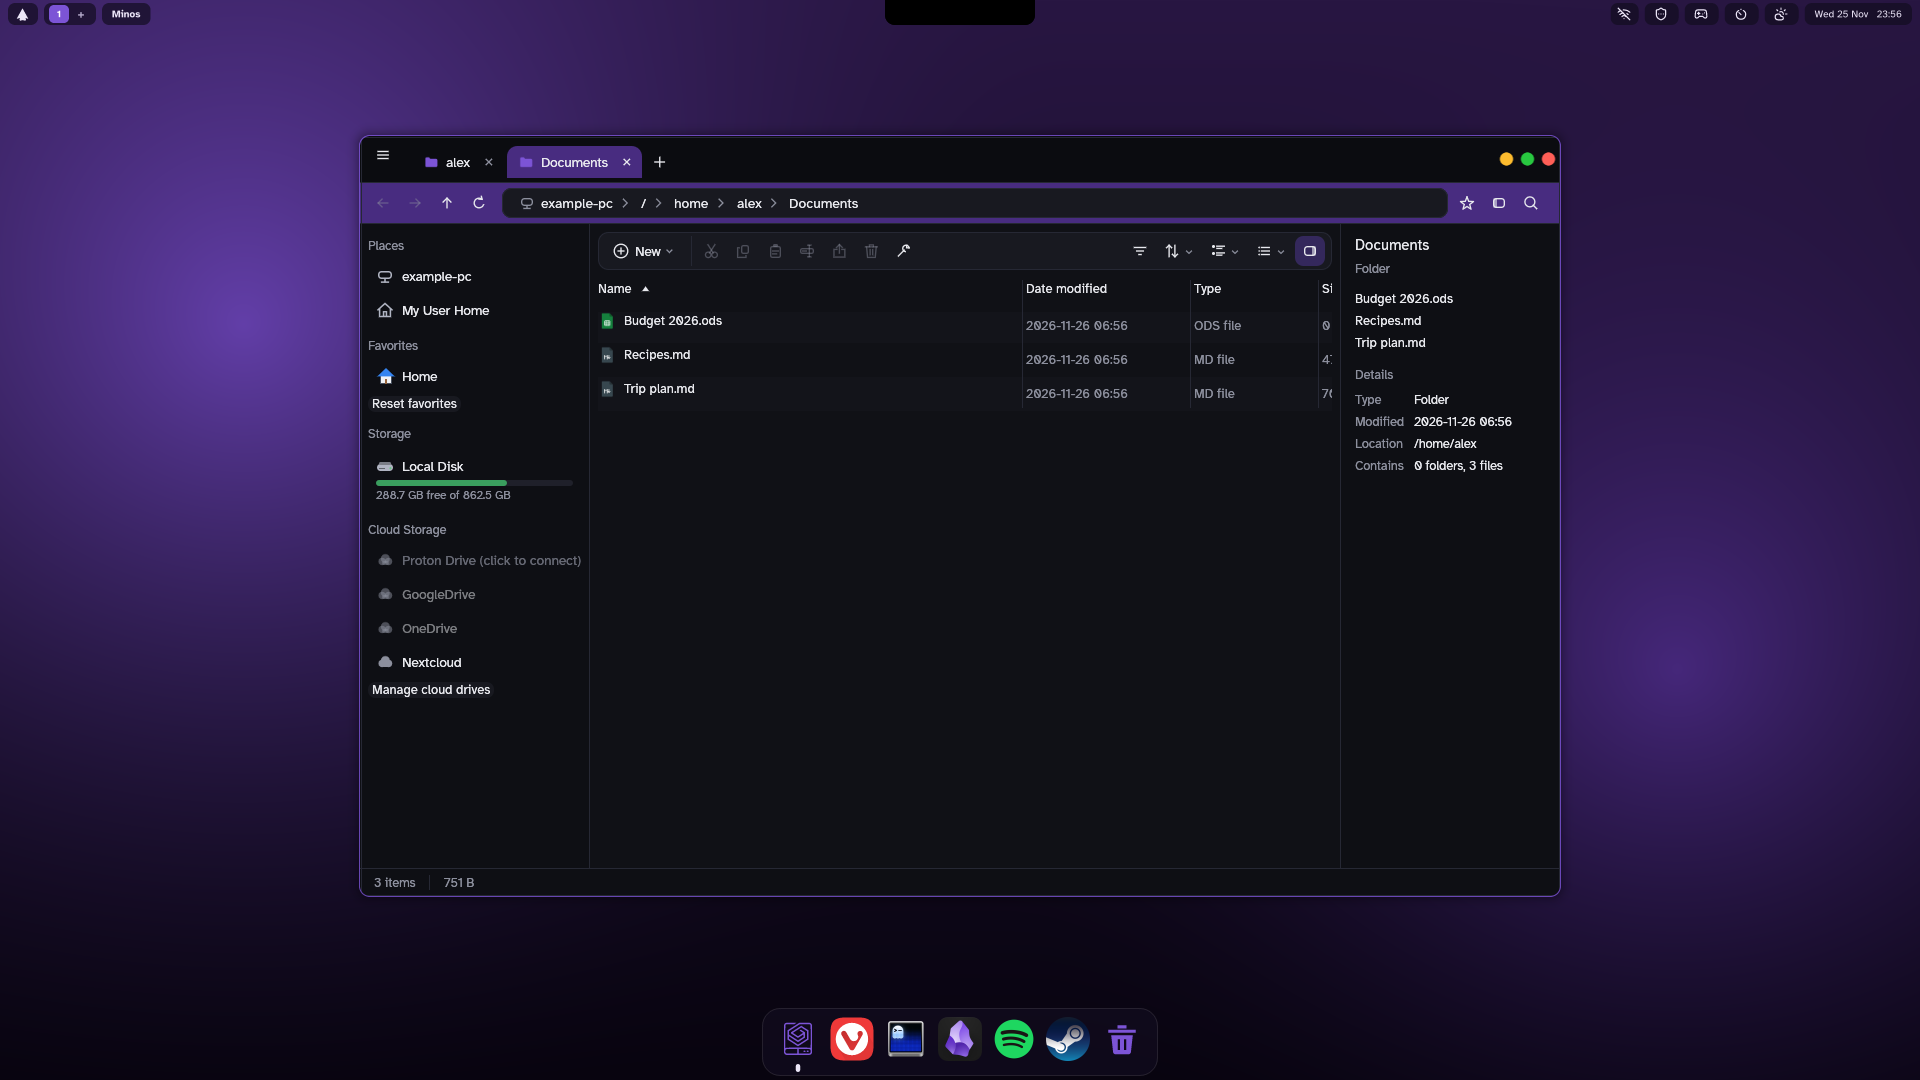
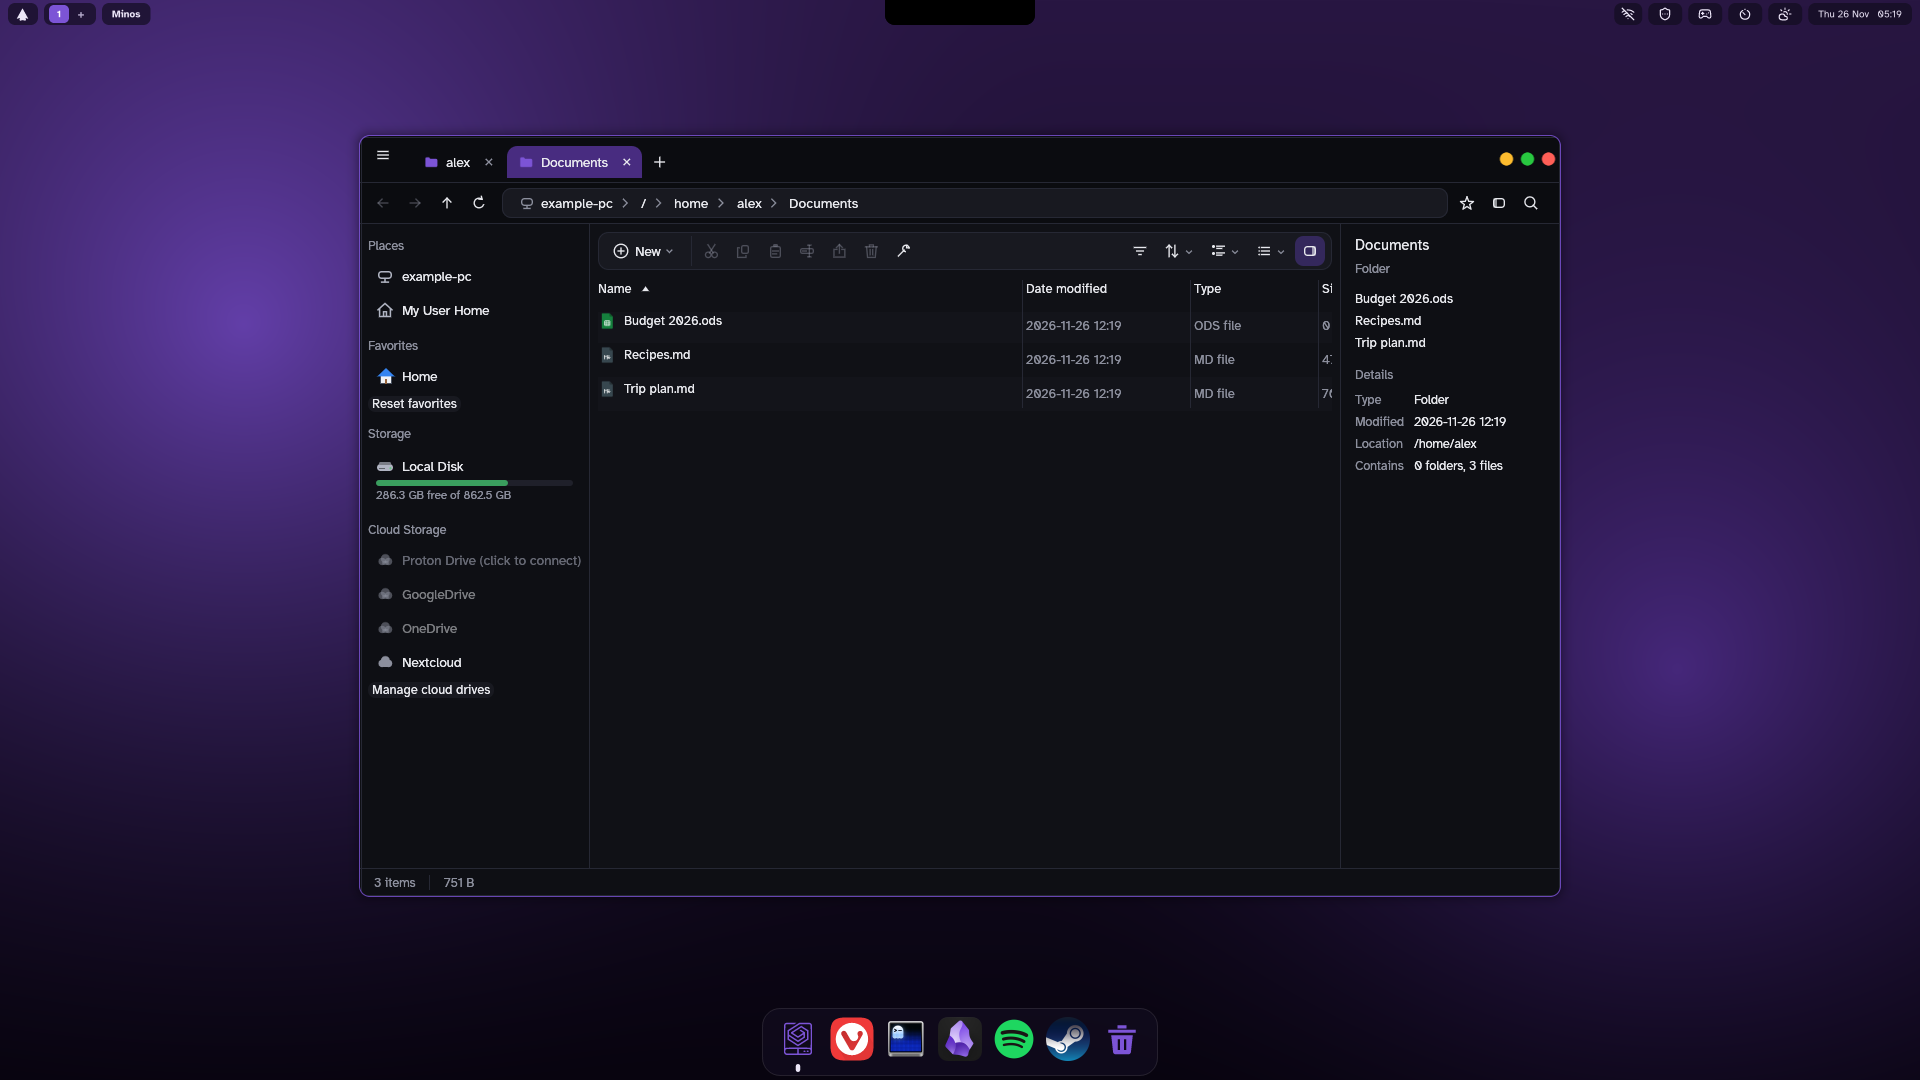
Minos: the navigation row in the title strip's colour; only the current tab is coloured
The row under the tabs was filled with the active tab's colour, so tab and row read as one purple band. It now has the title
strip's colour (dark or light), as Minos had before the Files-style top. README picture made again.

Changed region(s): [[0.1875, 0.1528, 0.8125, 0.2139], [0.8438, 0.0, 0.9688, 0.0306], [0.5625, 0.275, 0.5938, 0.3056]]

diff --git a/packages/minos/src/main.rs b/packages/minos/src/main.rs
@@ -4350,9 +4350,10 @@ impl eframe::App for App {
             });
         });
 
-        // the navigation row across the window, under the tabs (split view: one in each pane, draw_pane)
+        // the navigation row across the window, under the tabs, in the title strip's colour: only the current tab is
+        // coloured (split view: one in each pane, draw_pane)
         if !split {
-            egui::Panel::top("nav").frame(egui::Frame::new().fill(pal.tab_active).inner_margin(egui::Margin::symmetric(8, 5))).show(
+            egui::Panel::top("nav").frame(egui::Frame::new().fill(pal.strip).inner_margin(egui::Margin::symmetric(8, 5))).show(
                 ui,
                 |ui| {
                     topbar::nav_bar(ui, &mut self.panes[0], 0, &pal, &self.st, true, &mut actions);
